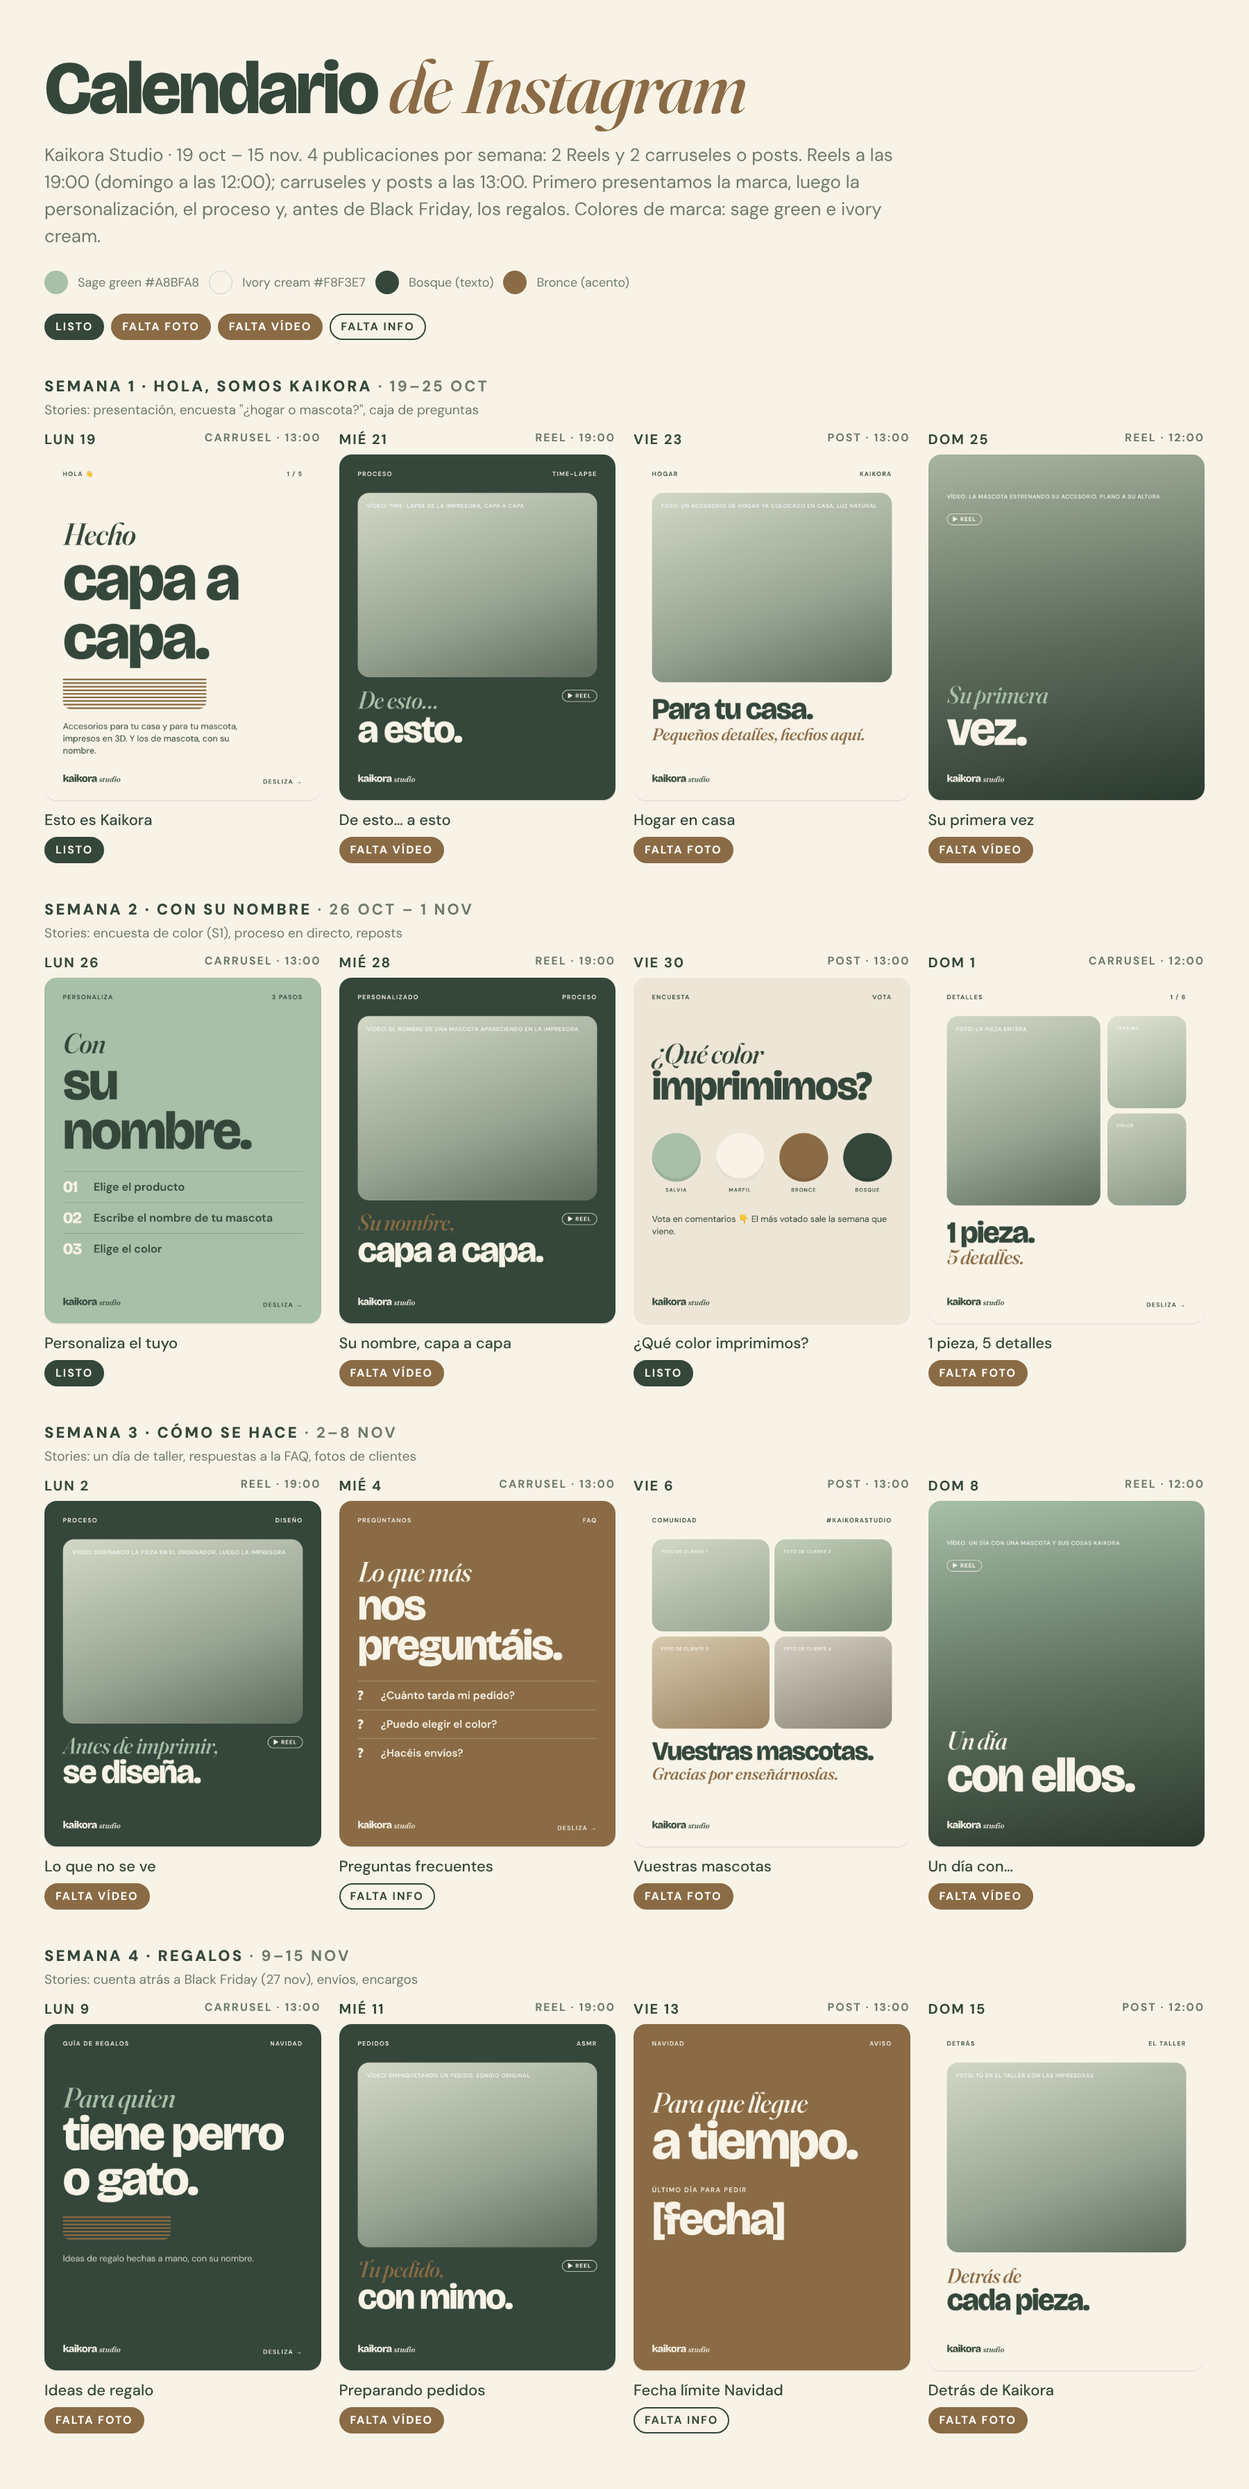
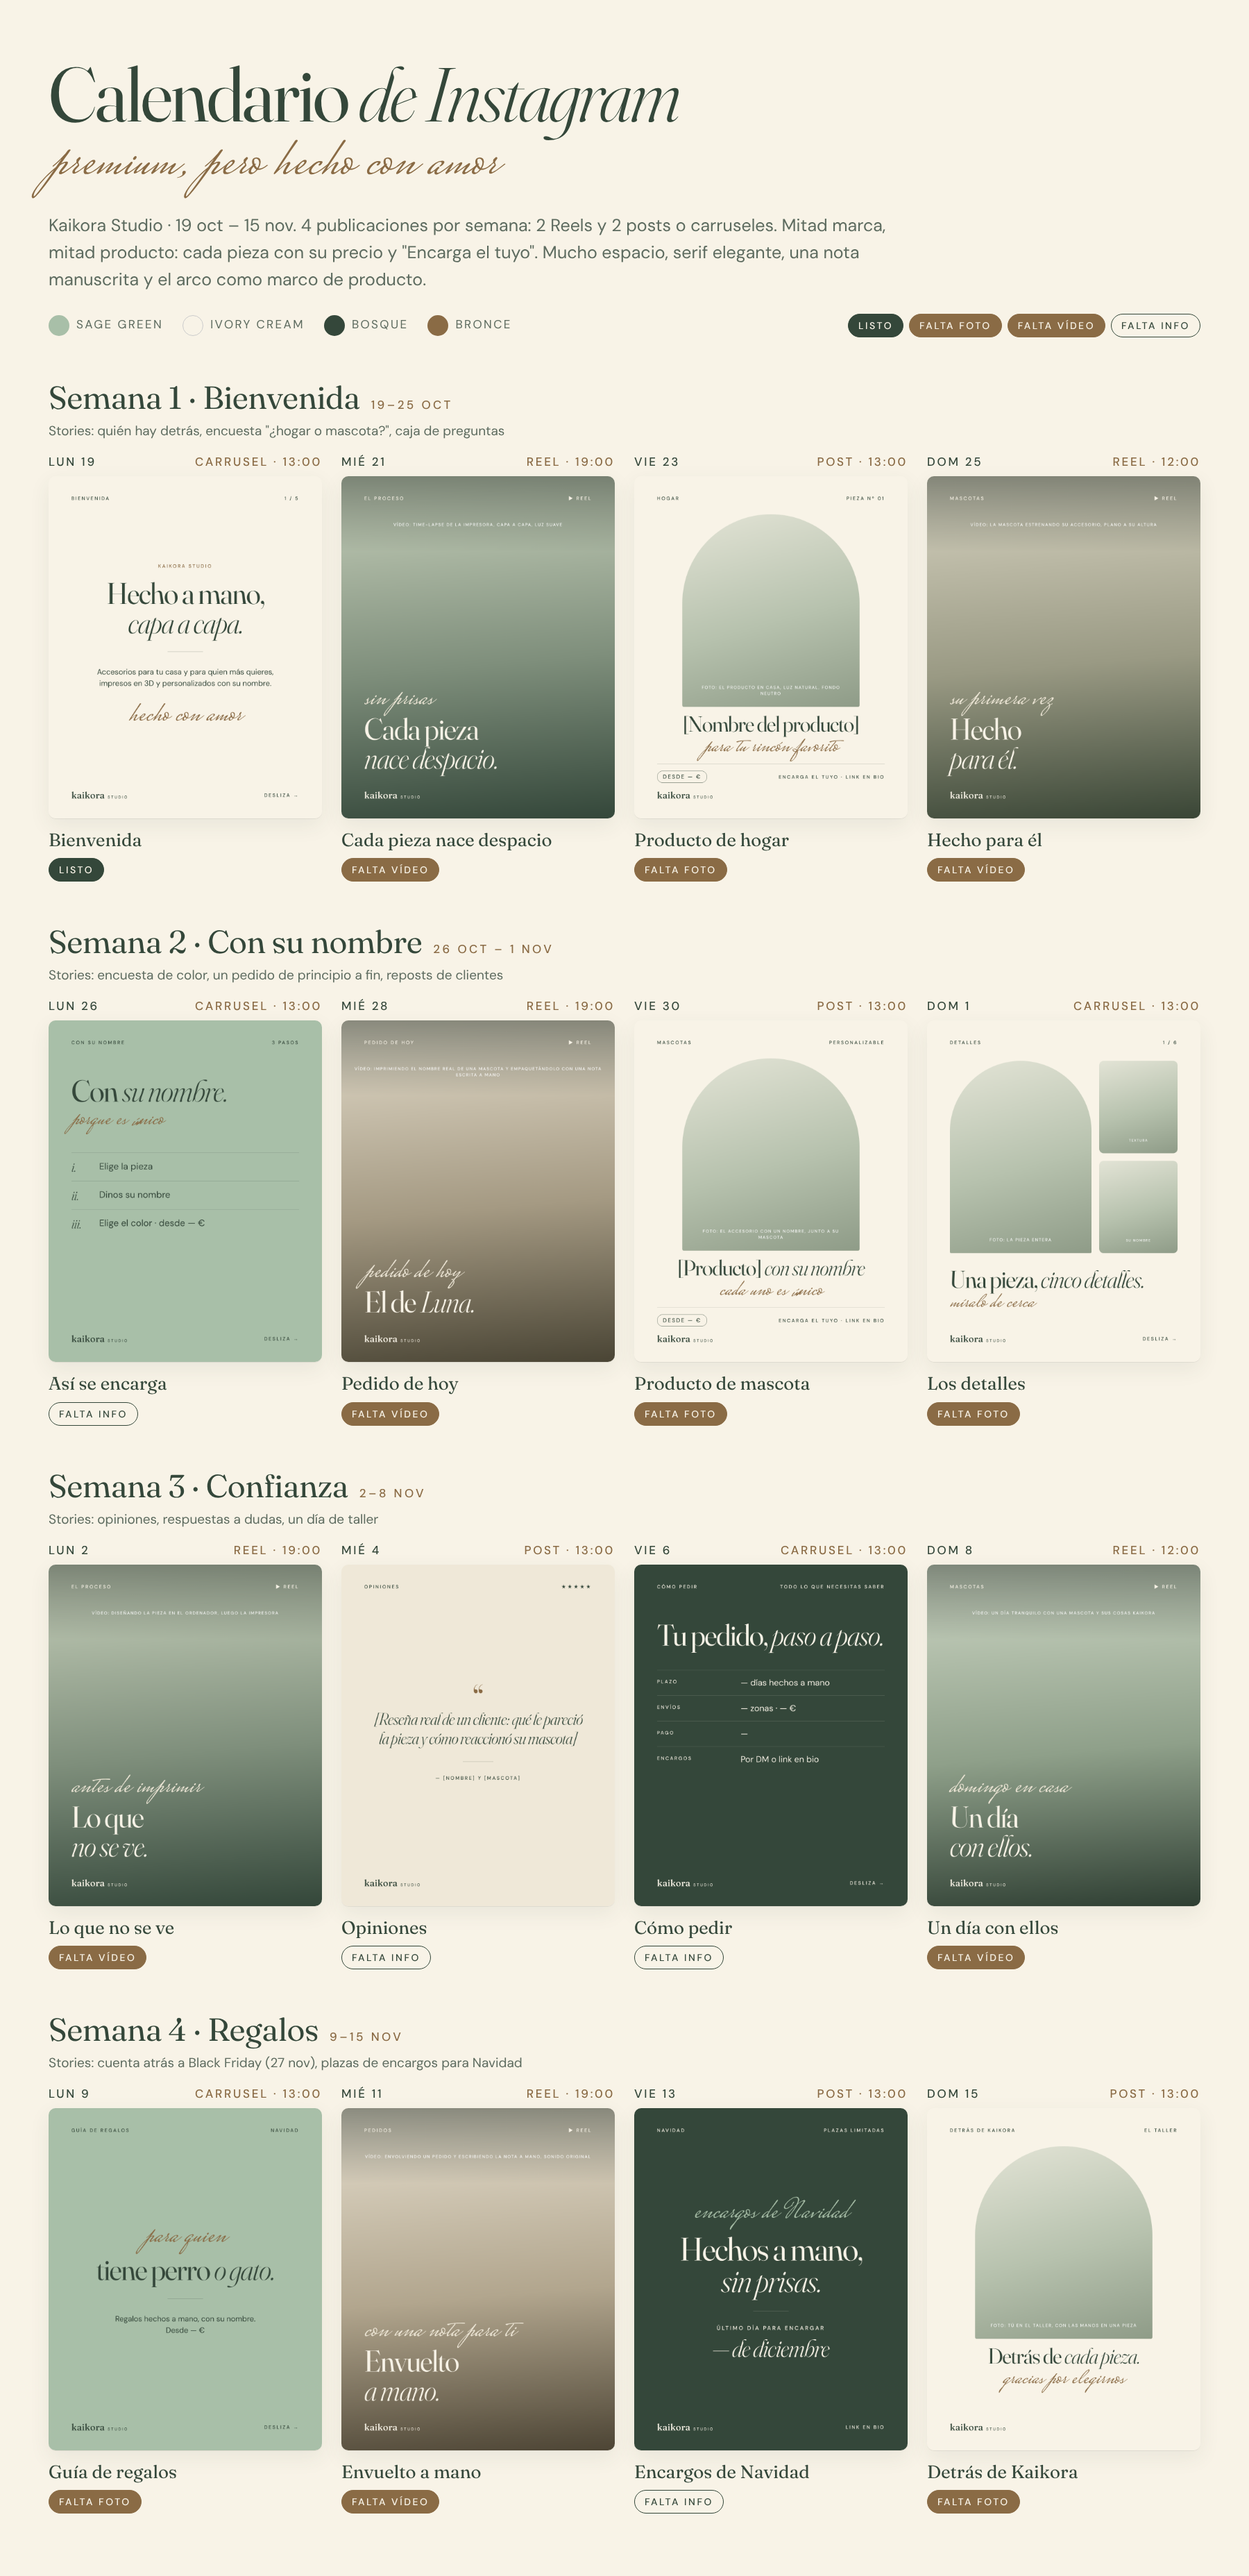
Kaikora: dirección premium y hecho con amor (calendario, 16 posts y guía de estilo)
Claude-Session: https://claude.ai/code/session_01CVQ5H1Ti7YZqaj675BUrDW

diff --git a/kaikora/redes/guia-de-estilo.md b/kaikora/redes/guia-de-estilo.md
@@ -1,0 +1,42 @@
+# Kaikora Studio · Premium, pero hecho con amor
+
+## La idea
+**Premium** quiere decir calma, espacio, pocos elementos y mucho cuidado en el detalle. **Con amor** quiere decir la mano de una persona detrás: el nombre de su mascota, una nota escrita a mano, "sin prisas".
+
+## Visual
+- **Colores:**
+  - Sage green #A8BFA8 e ivory cream #F8F3E7, la base.
+  - Bosque #34473A, para los textos y los fondos oscuros.
+  - Bronce #8A6B45, solo para acentos.
+- **Tipografías:**
+  - **Fraunces** (serif) para los titulares, con una palabra en cursiva.
+  - **DM Sans** para los textos.
+  - Una **firma manuscrita** pequeña (Mrs Saint Delafield), en bronce y una sola vez por post. Nunca como titular.
+- **El arco:** el marco de las fotos de producto. Es el elemento propio de la marca.
+- **Espacio:** deja aire. Si dudas, quita algo.
+- **Fotos:**
+  - Luz natural de ventana, fondos lisos en crema, lino o madera clara.
+  - Planos cerrados de textura, siempre con el producto en uso.
+  - Las mascotas a su altura.
+  - Nada de flash ni de fondos recargados.
+
+## Texto
+- Frases cortas y tranquilas. Máximo 1 o 2 emojis, y mejor ninguno en los titulares.
+- **Palabras de la marca:** hecho a mano, capa a capa, con su nombre, sin prisas, encarga, pieza.
+- **Evita:** "oferta", "chollo", "¡¡corre!!" y las mayúsculas gritonas.
+- **Para vender:** di "**encarga el tuyo**" en lugar de "compra ya", y "**desde X €**" en lugar de un precio en grande.
+- **Cierre de cada texto:** "Encárgalo con su nombre: link en bio o escríbenos por DM."
+
+## Detalles "con amor" (recomendación)
+- Una **nota escrita a mano** con el nombre de la mascota en cada pedido. Grábalo para los Reels de "Envuelto a mano".
+- Un papel o pegatina sencillo en sage o crema, y una tarjeta con el logo.
+- **Numerar las piezas** ("Pieza nº 012") para dar sensación de pieza única.
+- Repostear la foto de cada cliente que os mencione, dándole las gracias por su nombre.
+
+## Perfil
+- **Bio:**
+  > Accesorios para tu casa y tu mascota, hechos a mano en 3D
+  > Personalizados con su nombre 🌿
+  > Encarga el tuyo 👇
+- **Historias destacadas:** Piezas · Con su nombre · Opiniones · Cómo encargar · Envíos.
+- **Posts fijados:** la bienvenida, cómo encargar y las opiniones.
